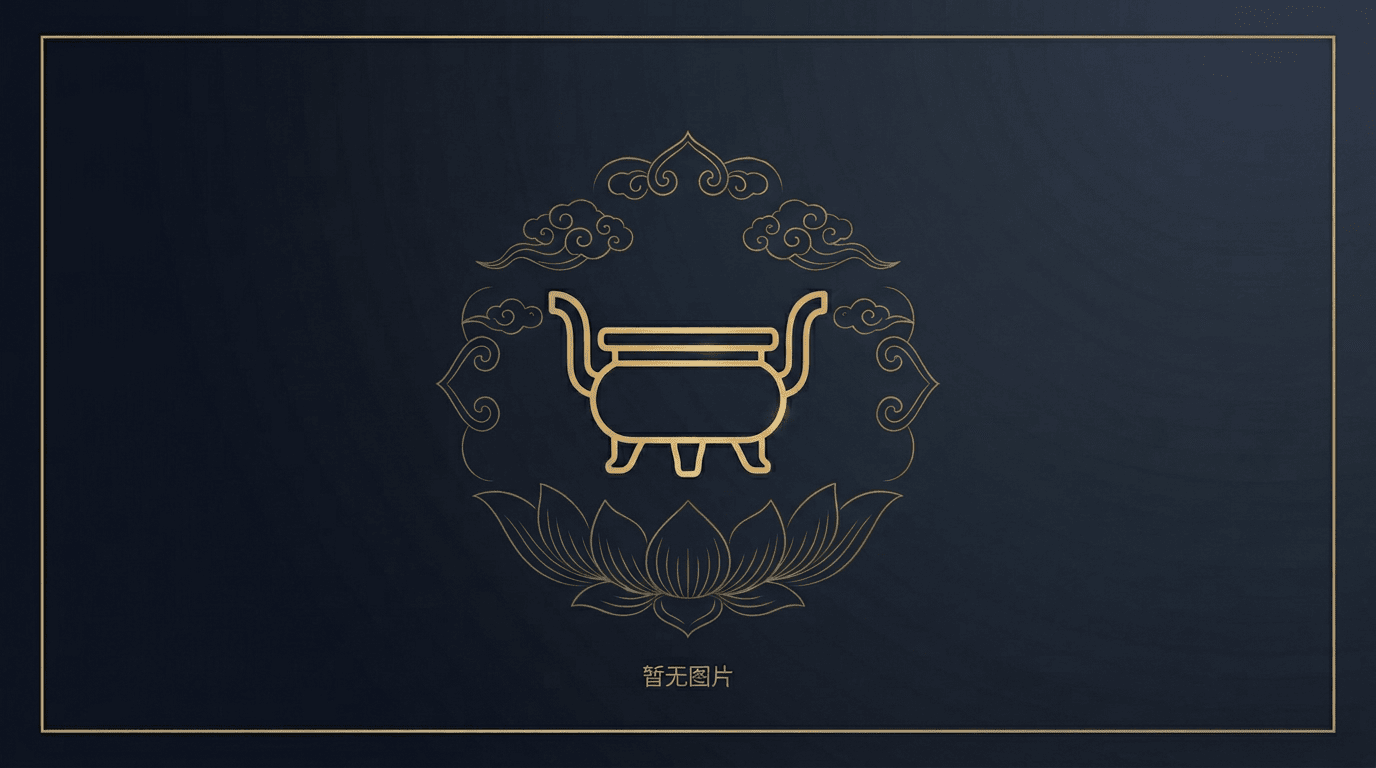
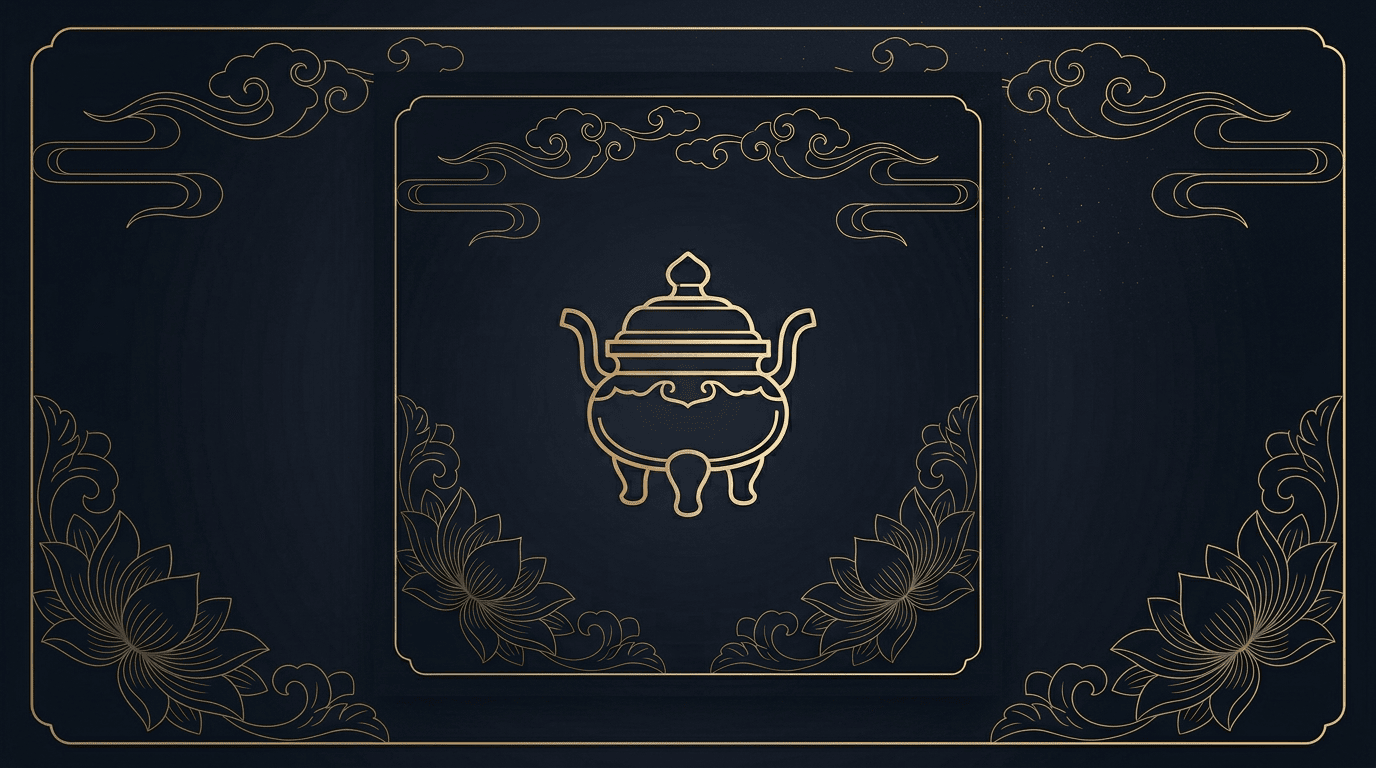
更换默认图片

Changed region(s): [[0.0, 0.0, 1.0, 1.0], [0.2812, 0.8438, 0.3125, 0.875]]

diff --git a/miniprogram/pages/product-detail/product-detail.scss b/miniprogram/pages/product-detail/product-detail.scss
@@ -367,12 +367,32 @@ page {
     border-bottom: 1rpx solid #eee;
     position: relative;
 
+    .popup-image-wrap {
+      position: relative;
+      width: 180rpx;
+      height: 180rpx;
+      flex-shrink: 0;
+      border-radius: 12rpx;
+      overflow: hidden;
+    }
+
     .popup-image {
       width: 180rpx;
       height: 180rpx;
-      border-radius: 12rpx;
-      flex-shrink: 0;
-      background-color: #f2f0ec;
+      background-color: #1a1f2e;
+    }
+
+    .popup-image-label {
+      position: absolute;
+      bottom: 0;
+      left: 0;
+      right: 0;
+      text-align: center;
+      font-size: 20rpx;
+      color: rgba(200, 160, 82, 0.9);
+      background: rgba(0, 0, 0, 0.35);
+      padding: 8rpx 0;
+      letter-spacing: 2rpx;
     }
 
     .popup-info {

diff --git a/miniprogram/pages/product-detail/product-detail.ts b/miniprogram/pages/product-detail/product-detail.ts
@@ -62,6 +62,7 @@ Component({
     isFavorite: false,
     isLoading: true,
     popupImageSrc: '',
+    popupImageFailed: false,
     contact: {
       phone: '13895617366',
       phoneBackup: '13389582060',
@@ -372,9 +373,12 @@ Component({
       showToast({ title: '分享功能开发中', type: 'none' })
     },
 
-    /** 规格弹窗图片加载失败，回退到默认占位图 */
+    /** 规格弹窗图片加载失败，回退到默认占位图并显示提示文字 */
     onPopupImageError() {
-      this.setData({ popupImageSrc: '/images/default-product.png' })
+      this.setData({
+        popupImageSrc: '/images/default-product.png',
+        popupImageFailed: true
+      })
     },
 
     /** 返回上一页 */
